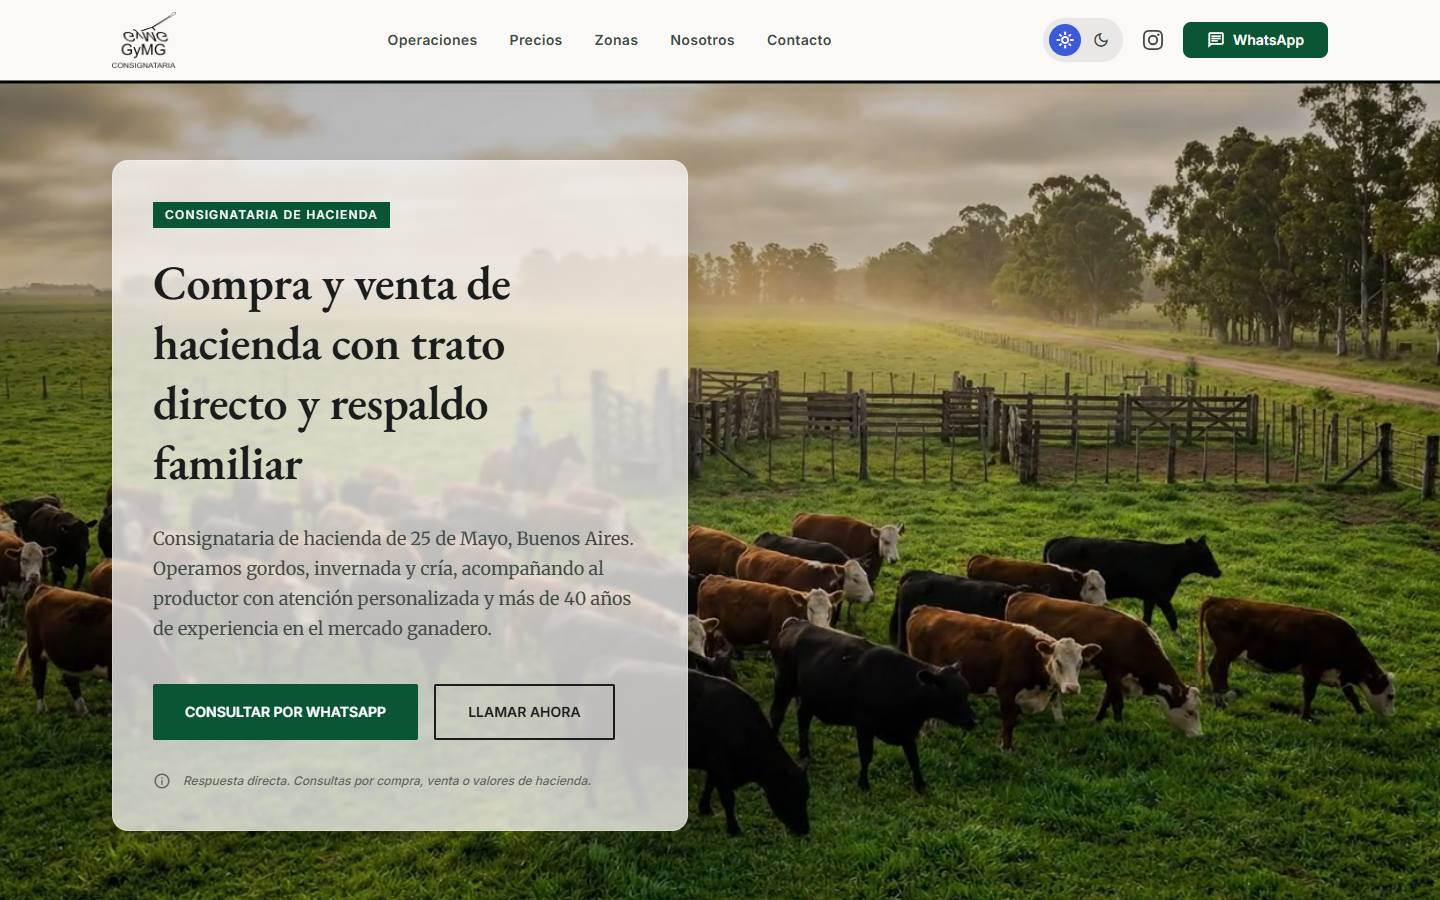
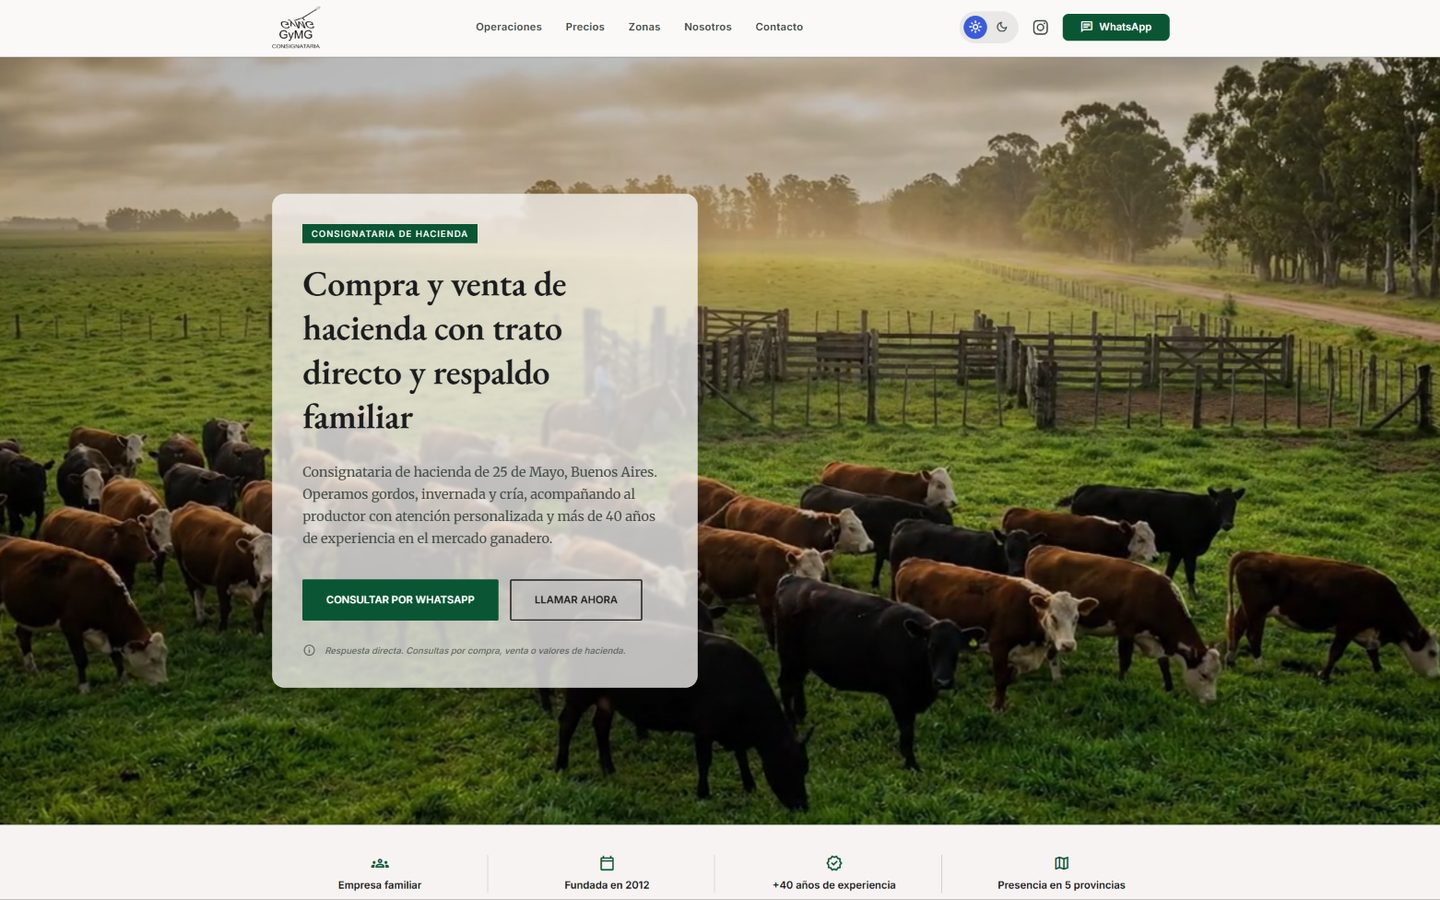
feat: show Juani's real captures in the works index, with the ShineApp panel first and private data blurred

diff --git a/src/content/projects.ts b/src/content/projects.ts
@@ -75,6 +75,7 @@ export const projects = [
     layout: "split-left",
     placeholder: false,
     images: [
+      { src: "/images/proyectos/shineapp/panel.jpg", alt: "Panel de ShineApp con la agenda del día, los indicadores del período y la caja por categoría", width: 1440, height: 900 },
       { src: "/images/proyectos/shineapp/escritorio.jpg", alt: "Pantalla de acceso de ShineApp", width: 1440, height: 900 },
     ],
     phoneImage: { src: "/images/proyectos/shineapp/celular.jpg", alt: "Pantalla de acceso de ShineApp en el celular", width: 390, height: 844 },
@@ -111,7 +112,7 @@ export const projects = [
     layout: "split-right",
     placeholder: false,
     images: [
-      { src: "/images/proyectos/consignataria-hacienda/escritorio.jpg", alt: "Inicio de la landing de la consignataria", width: 1440, height: 900 },
+      { src: "/images/proyectos/consignataria-hacienda/escritorio.jpg", alt: "Inicio de la landing de la consignataria: hacienda pastando y la propuesta con sus botones de contacto", width: 1440, height: 900 },
     ],
     phoneImage: { src: "/images/proyectos/consignataria-hacienda/celular.jpg", alt: "Inicio de la landing de la consignataria en el celular", width: 390, height: 844 },
     url: "https://gymg.com.ar/",
@@ -147,7 +148,7 @@ export const projects = [
     layout: "horizon",
     placeholder: false,
     images: [
-      { src: "/images/proyectos/portfolio-desarrollador/escritorio.jpg", alt: "Inicio del portfolio", width: 1440, height: 900 },
+      { src: "/images/proyectos/portfolio-desarrollador/escritorio.jpg", alt: "Inicio del portfolio en tema oscuro, con el titular y los proyectos SISOC y ShineApp", width: 1440, height: 900 },
     ],
     phoneImage: { src: "/images/proyectos/portfolio-desarrollador/celular.jpg", alt: "Inicio del portfolio en el celular", width: 390, height: 844 },
     url: "https://juanikitro.com/",
